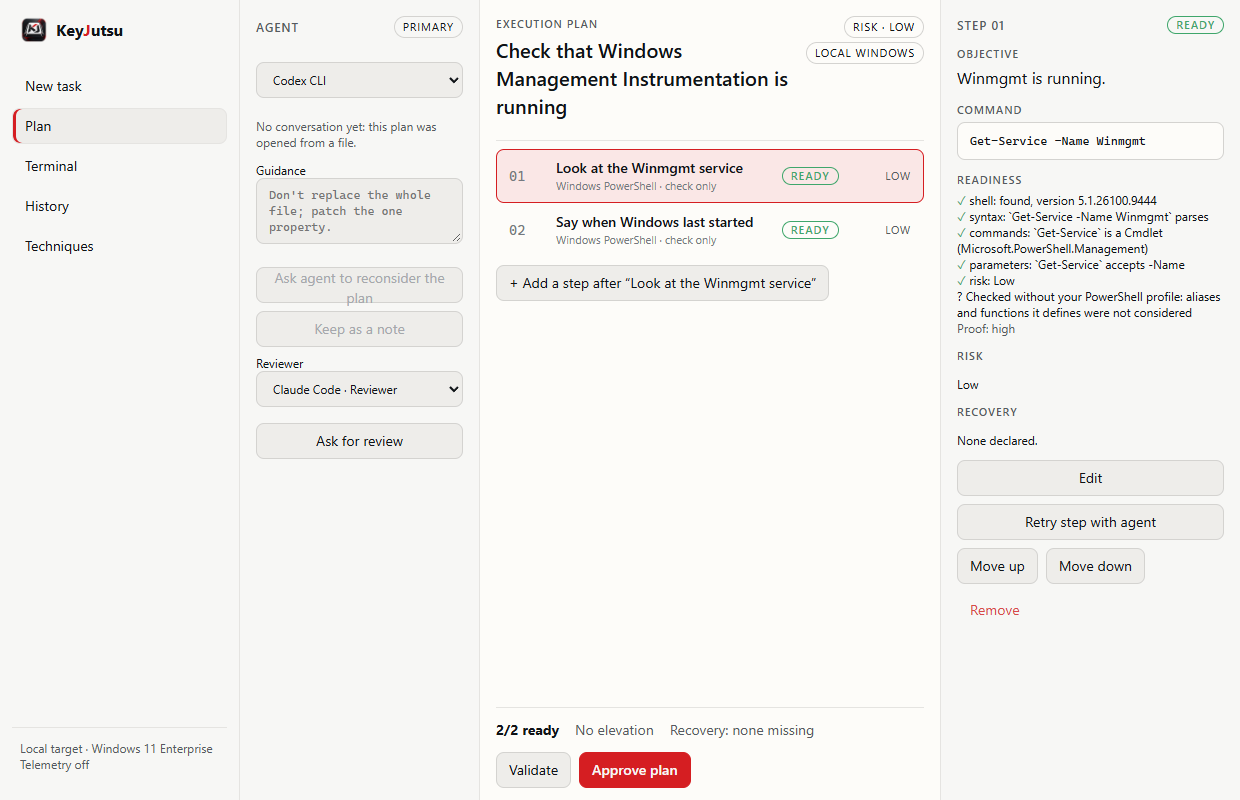
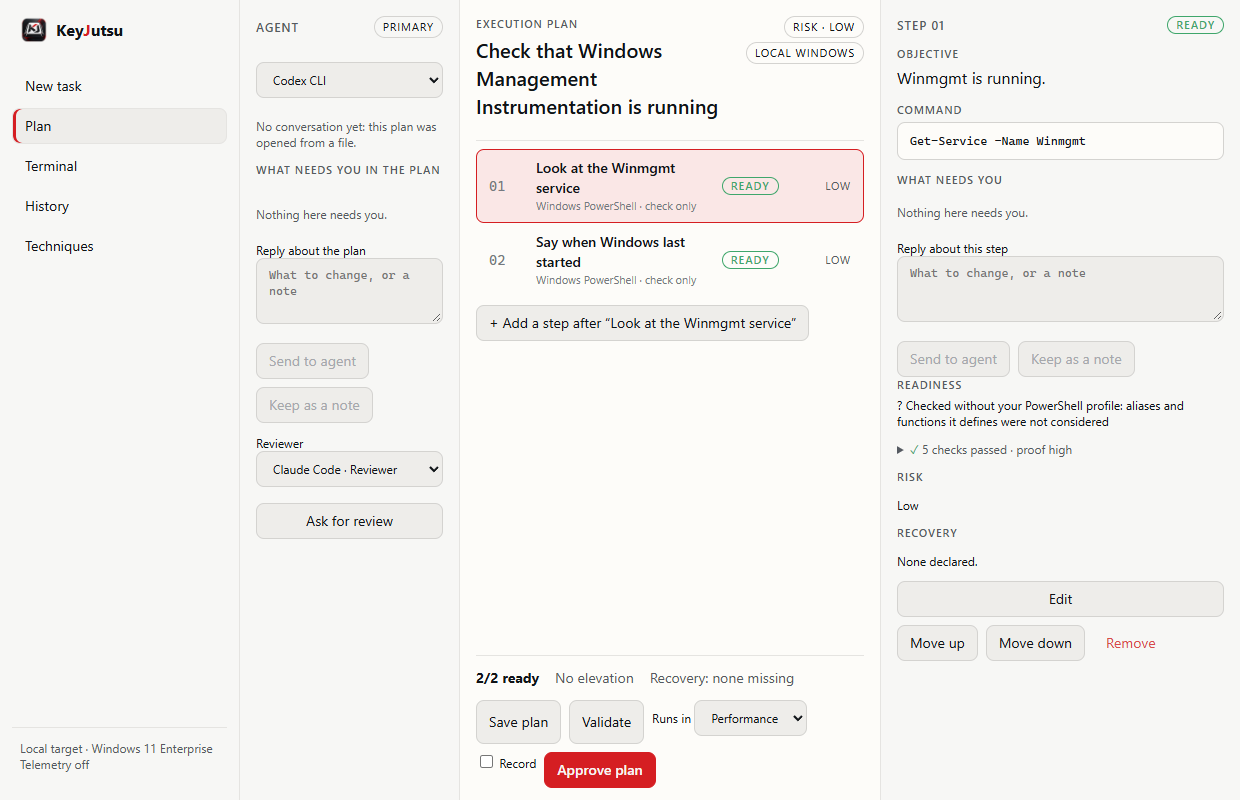
Show a Technique's steps with their values, retake the screenshots, and 0.1.16 (#31)
* Let the docs capture run again

History's Technique form now opens only when Make it a Technique... is
chosen, so the capture looked for the parameters box before it was
there and every later screenshot of the journey was lost. It now opens
the form first.

Windows Sandbox builds its image from the host, and once the host's
WebView2 has updated, the image can register a version whose files it
does not have. KeyJutsu's installer then takes WebView2 as installed and
skips it, and the app cannot open. When the registered version is not
there, the capture now points the app at the version that is, through
WEBVIEW2_BROWSER_EXECUTABLE_FOLDER, and says so in its log.

* Retake the screenshots of the pages that have changed

History, Techniques, Plan, Terminal and the performance were captured
before the pages were reworked. They are retaken from 0.1.15 in Windows
Sandbox, and the descriptions of History, Techniques, Plan and Terminal
say what each now shows. The first-run screen is kept as it was: the
new capture reports the Sandbox's registered WebView2 version, not the
one the app ran on. New task and the critical action came out identical.

* Show a Technique's steps with the values they will get

A Technique's steps are its plan's, with each value made a parameter, so
the Techniques page listed them with the placeholder in: "Look at the
{{kj:service_name}} service". Each placeholder is now shown as the value
[…]

diff --git a/apps/desktop/src/technique.test.ts b/apps/desktop/src/technique.test.ts
@@ -1,6 +1,6 @@
 import { describe, expect, it } from "vitest";
 import type { technique } from "@keyjutsu/types";
-import { lastChanged, latestFirst, parameterPairs, whereItWorked } from "./technique";
+import { filledIn, lastChanged, latestFirst, parameterPairs, whereItWorked } from "./technique";
 
 describe("parameterPairs", () => {
   it("reads one name = value per line, trimmed", () => {
@@ -56,6 +56,32 @@ describe("the Techniques list", () => {
     expect(whereItWorked(saved("a", "2026-09-01T10:00:00Z", {}, 3))).toBe("worked on 3 machines");
     expect(whereItWorked(saved("a", "2026-09-01T10:00:00Z", { imported: true }, 0))).toBe(
       "not yet worked on a machine known here",
+    );
+  });
+});
+
+describe("filledIn", () => {
+  it("shows each placeholder as the value it will get", () => {
+    expect(filledIn("Look at the {{kj:service_name}} service", { service_name: "Winmgmt" })).toBe(
+      "Look at the Winmgmt service",
+    );
+    expect(filledIn("{{kj:a}} then {{kj:a}} and {{kj:b}}", { a: "x", b: "y" })).toBe(
+      "x then x and y",
+    );
+  });
+
+  it("names a parameter that has no value yet", () => {
+    expect(filledIn("Look at the {{kj:service_name}} service", { service_name: "  " })).toBe(
+      "Look at the <service_name> service",
+    );
+    expect(filledIn("Look at the {{kj:service_name}} service", {})).toBe(
+      "Look at the <service_name> service",
+    );
+  });
+
+  it("leaves text without placeholders alone", () => {
+    expect(filledIn("Say when Windows last started", { a: "x" })).toBe(
+      "Say when Windows last started",
     );
   });
 });

diff --git a/apps/desktop/src/components/TechniquesView.tsx b/apps/desktop/src/components/TechniquesView.tsx
@@ -2,7 +2,7 @@ import { useEffect, useState } from "react";
 import type { technique, TechniqueDraft } from "@keyjutsu/types";
 import { agentLabel, when } from "../history";
 import { ipc } from "../ipc";
-import { lastChanged, latestFirst, whereItWorked } from "../technique";
+import { filledIn, lastChanged, latestFirst, whereItWorked } from "../technique";
 
 interface Props {
   busy: boolean;
@@ -105,7 +105,7 @@ export function TechniquesView({ busy, onDraft }: Props) {
                 <p className="eyebrow muted">Steps</p>
                 <ol className="technique-steps">
                   {selected.template.steps.map((st) => (
-                    <li key={st.id}>{st.title}</li>
+                    <li key={st.id}>{filledIn(st.title, values)}</li>
                   ))}
                 </ol>
 

diff --git a/apps/desktop/src/technique.ts b/apps/desktop/src/technique.ts
@@ -27,3 +27,10 @@ export function whereItWorked(t: technique.Technique): string {
   if (n === 0) return "not yet worked on a machine known here";
   return `worked on ${n} machine${n === 1 ? "" : "s"}`;
 }
+
+/**
+ * Text from a Technique's plan with each `{{kj:name}}` shown as the value it
+ * will get, or as `<name>` while that value is blank.
+ */
+export const filledIn = (text: string, values: Record<string, string>) =>
+  text.replace(/\{\{kj:([^}]+)\}\}/g, (_, name: string) => values[name]?.trim() || `<${name}>`);

diff --git a/docs/guides/techniques.md b/docs/guides/techniques.md
@@ -43,7 +43,7 @@ In the desktop app, a run that completes offers **Make it a Technique** as
 soon as it finishes, and any completed run in History has it under its steps:
 give it a name, and list any parameters as `name = value`, one per line.
 
-![The History screen. A completed run, Check that Windows Management Instrumentation is running, is selected, with its two steps marked ok. Below them, Make it a Technique: a name, and one parameter, service_name = Winmgmt, then the Make a Technique button.](../images/history.png)
+![The History screen. One run, Check that Windows Management Instrumentation is running, marked Completed, is selected: when it ran, that it took 4 s, and that Codex planned it, then its two steps, each ticked with its time. Below them, Make it a Technique: a name, and one parameter, service_name = Winmgmt, then the Make a Technique button.](../images/history.png)
 
 From the CLI:
 
@@ -69,7 +69,7 @@ since it has worked on no machine KeyJutsu knows.
 Fill in its parameters, and **Make a draft plan**: the draft opens in the Plan screen, not validated,
 for you to validate and approve.
 
-![The Techniques screen. One Technique, revision 1, worked on 1 machine, is selected, with its service_name parameter filled in as Winmgmt and the Make a draft plan button.](../images/techniques.png)
+![The Techniques screen. One Technique, saved today and worked on 1 machine, is selected: revision 1, when it was saved, that Codex planned it, its two steps, its service_name parameter filled in as Winmgmt, and the Make a draft plan button.](../images/techniques.png)
 
 From the CLI:
 

diff --git a/docs/guides/installing.md b/docs/guides/installing.md
@@ -11,7 +11,7 @@ and `keyjutsu doctor` has told you whether this machine is ready.
   Files for every user, and that needs one UAC prompt. The reason is the
   elevation broker: it is started as Administrator, so it has to live where
   only Administrators can replace it.
-- **The installer,** `KeyJutsu_0.1.15_x64-setup.exe`, from the
+- **The installer,** `KeyJutsu_0.1.16_x64-setup.exe`, from the
   [latest release](https://github.com/TheCodeSaiyan/keyjutsu/releases/latest).
   Until the first release is published, build it: `pnpm desktop:build`, from
   a clone with Rust and Node installed, leaves it in
@@ -59,7 +59,7 @@ the 77 seconds the install took.
   folder, or the empty space inside one, then opens the desktop app with its
   terminal already in that folder.
 
-A silent install, `KeyJutsu_0.1.15_x64-setup.exe /S`, answers yes to both.
+A silent install, `KeyJutsu_0.1.16_x64-setup.exe /S`, answers yes to both.
 
 ### 3. Open a new terminal
 
@@ -76,7 +76,7 @@ On a clean Windows 11 with two agents installed and nothing else, this is what
 you see:
 
 ```text
-KeyJutsu 0.1.15
+KeyJutsu 0.1.16
 
   [ok  ] Windows                          Windows 11 Enterprise 24H2
   [ok  ] Architecture                     x64
@@ -144,7 +144,7 @@ opened.
 
 ## Trying it without installing
 
-Each release also has `KeyJutsu_0.1.15_x64-portable.zip`: the app and the
+Each release also has `KeyJutsu_0.1.16_x64-portable.zip`: the app and the
 CLI, with nothing to install. Unzip the folder anywhere you can write to and
 run `keyjutsu-desktop.exe`, or `keyjutsu.exe` from a terminal.
 

diff --git a/docs/guides/planning.md b/docs/guides/planning.md
@@ -87,7 +87,7 @@ readiness, its risk, and how it would be undone. What needs you comes first;
 the checks that passed are folded into one line, each shown once, since a step
 with many commands passes the same check many times:
 
-![The KeyJutsu Plan screen. Two steps of the example plan, both READY and low risk. The first is selected, showing its command, Get-Service -Name Winmgmt, the evidence behind its readiness, and Edit, Retry step with agent, Move and Remove. At the foot, 2/2 ready, no elevation, and Validate and Approve plan.](../images/plan-workspace.png)
+![The KeyJutsu Plan screen. On the left, the agent, Codex CLI, with nothing that needs you and a reply box, and a reviewer. In the middle, two steps of the example plan, both READY and low risk. The first is selected on the right, showing its command, Get-Service -Name Winmgmt, a note that it was checked without your PowerShell profile, 5 checks passed, and Edit, Move up, Move down and Remove. At the foot, 2/2 ready, no elevation, and Save plan, Validate, where it runs, Record and Approve plan.](../images/plan-workspace.png)
 
 From the CLI:
 

diff --git a/README.md b/README.md
@@ -82,7 +82,7 @@ keyjutsu plan validate spooler.json
 keyjutsu plan approve spooler.json --out spooler.approved.json
 ```
 
-![The KeyJutsu Plan screen. Two steps of the example plan, both READY and low risk. The first is selected, showing its command, Get-Service -Name Winmgmt, the evidence behind its readiness, and Edit, Retry step with agent, Move and Remove. At the foot, 2/2 ready, no elevation, and Validate and Approve plan.](docs/images/plan-workspace.png)
+![The KeyJutsu Plan screen. On the left, the agent, Codex CLI, with nothing that needs you and a reply box, and a reviewer. In the middle, two steps of the example plan, both READY and low risk. The first is selected on the right, showing its command, Get-Service -Name Winmgmt, a note that it was checked without your PowerShell profile, 5 checks passed, and Edit, Move up, Move down and Remove. At the foot, 2/2 ready, no elevation, and Save plan, Validate, where it runs, Record and Approve plan.](docs/images/plan-workspace.png)
 
 ### A run that checks each step, and stops at the first failure
 

diff --git a/docs/guides/first-performance.md b/docs/guides/first-performance.md
@@ -28,7 +28,7 @@ In the desktop app, the first screen has **Try the safe demo**. It stages
 the same three commands; open **Terminal**, choose the **Clean** profile, and
 press **Arm KeyJutsu** to begin:
 
-![The Terminal screen with the safe demo ready. On the left, the mode (Performance selected), Turbo, what submits a command, the demo's read-only commands and the red Arm KeyJutsu button. On the right, Windows PowerShell with the Clean profile, waiting at its prompt.](../images/terminal.png)
+![The Terminal screen with the safe demo ready. On the left, the mode (Performance selected), Turbo, what submits a command, the demo's read-only commands and the red Arm KeyJutsu button, then Readiness, naming PowerShell 7 and Git as not installed. On the right, Windows PowerShell with the Clean profile, waiting at its prompt.](../images/terminal.png)
 
 ### 2. Mash the keyboard
 

diff --git a/docs/plain/installing.md b/docs/plain/installing.md
@@ -6,7 +6,7 @@ that your computer is ready.
 ## Before you start
 
 You'll need the KeyJutsu installer. Its name is
-`KeyJutsu_0.1.15_x64-setup.exe`, and it's on the
+`KeyJutsu_0.1.16_x64-setup.exe`, and it's on the
 [releases page](https://github.com/TheCodeSaiyan/keyjutsu/releases/latest). If
 that page is empty, no copy has been published yet, and someone who builds
 software has to make one for you.
@@ -18,7 +18,7 @@ someone who does nearby. You type it once.
 
 ### 1. Start the installer
 
-Double-click `KeyJutsu_0.1.15_x64-setup.exe`.
+Double-click `KeyJutsu_0.1.16_x64-setup.exe`.
 
 ### 2. Get past the warning
 
